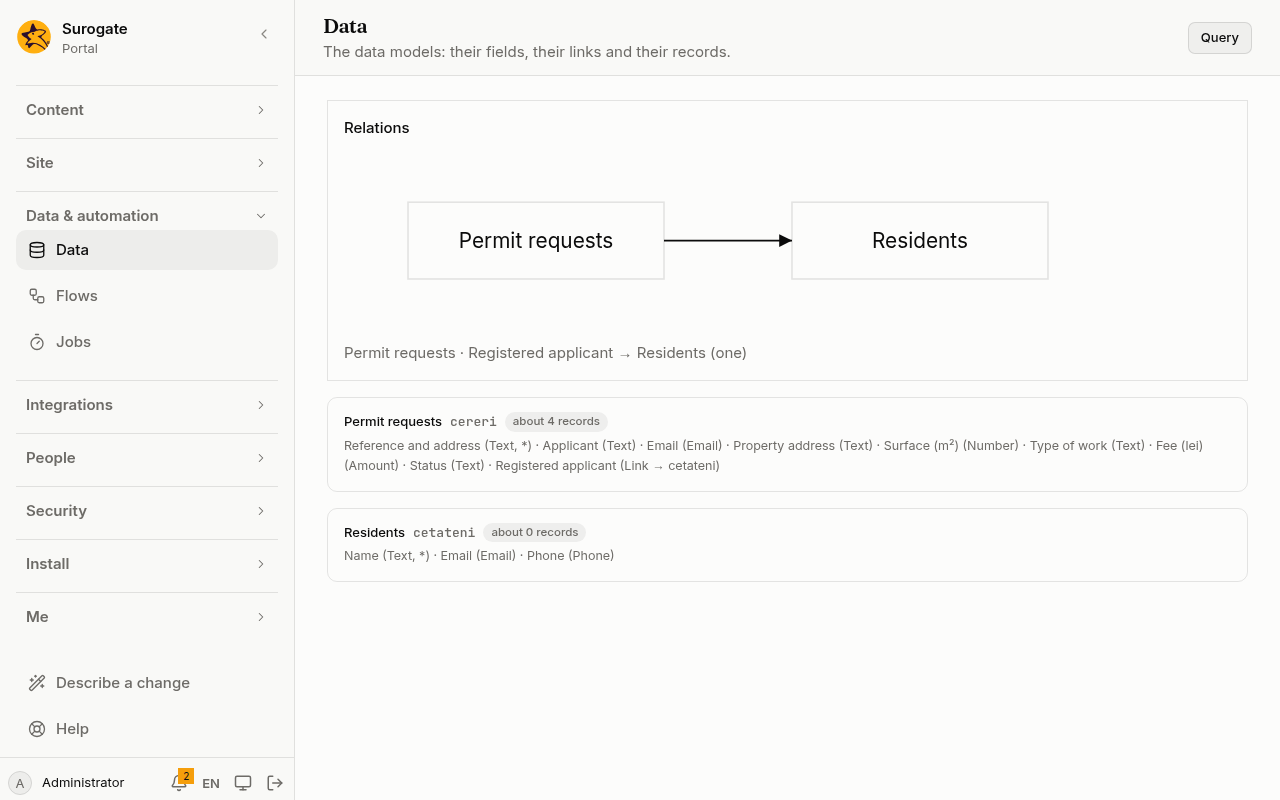
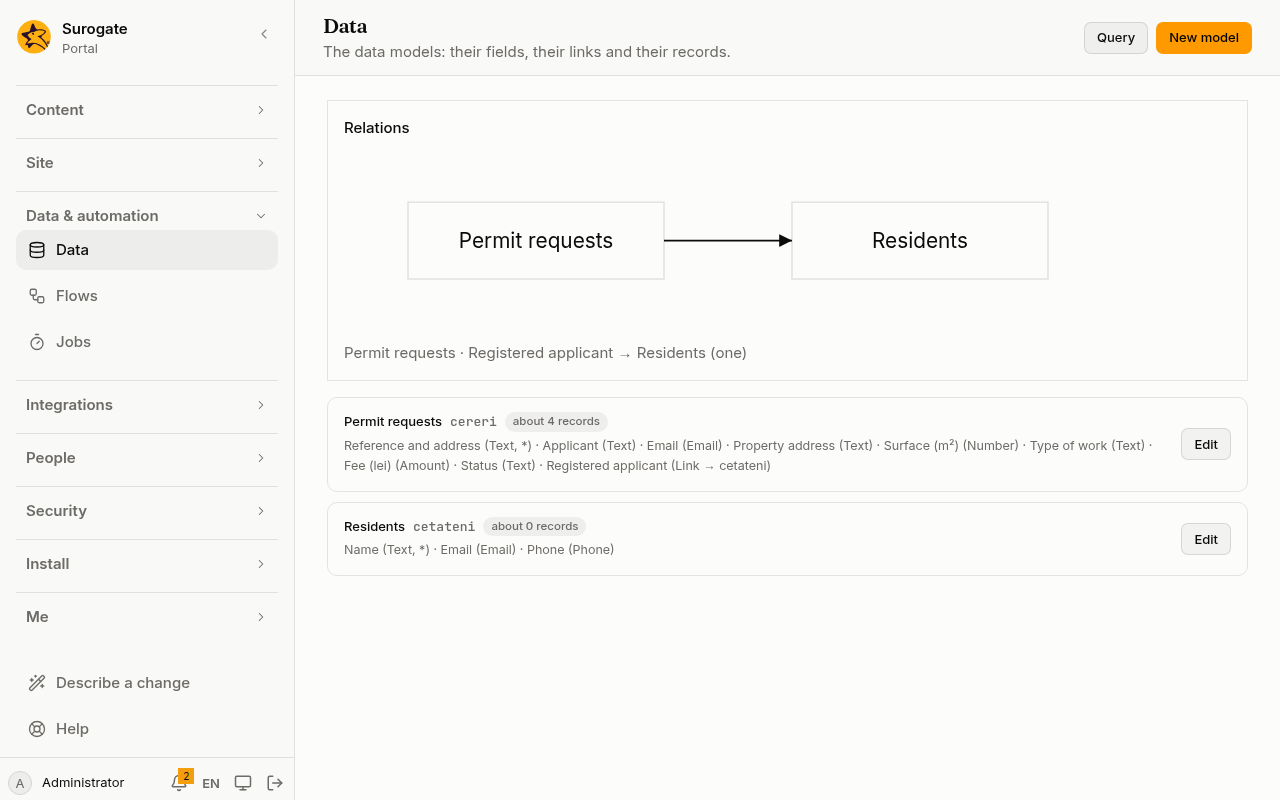
docs(portal): make and change data models in the console

diff --git a/tests/test_content.py b/tests/test_content.py
@@ -497,8 +497,12 @@ class Content(unittest.TestCase):
 
     def test_portal_data_models(self):
         doc = page('/portal/sites/data-models/')
-        for anchor in ('what-people-see', 'a-model', 'fields', 'who-may-do-what', 'when-the-file-changes', 'the-api', 'graphql', 'relations'):
+        for anchor in ('what-people-see', 'a-model', 'fields', 'who-may-do-what', 'when-a-model-changes', 'on-pages', 'the-api', 'graphql', 'relations'):
             self.assertIn(f'id="{anchor}"', doc)
+        self.assertIn('href="/portal/sites/data-models/#a-model"', page('/portal/console/data/'))
+        # Models, their pages and their KPIs are made in the console.
+        for path in ('sites/data-models.md', 'console/data.md', 'sites/kpis.md'):
+            self.assertNotIn('For now', (ROOT / 'src/content/docs/portal' / path).read_text(), path)
         self.assertIn('id="records"', page('/portal/sites/actions/'))
         self.assertIn('href="/portal/sites/data-models/"', page('/portal/console/data/'))
         for path in ('sites/data-models.md', 'console/data.md'):

diff --git a/src/content/docs/portal/sites/data-models.md b/src/content/docs/portal/sites/data-models.md
@@ -3,13 +3,13 @@ title: Data models
 description: Your own tables of records, with fields, links, permissions per role and an API.
 ---
 
-A data model is a kind of record the portal keeps for you: customers, requests, permits, appointments. You describe it in the site's configuration, and the portal makes its table, keeps it in step with the description, and serves its records to people, pages and [action lists](/portal/sites/actions/#records).
+A data model is a kind of record the portal keeps for you: customers, requests, permits, appointments. You make it in the console, under **Data**, and the portal makes its table, keeps it in step with the model, and serves its records to people, pages and [action lists](/portal/sites/actions/#records).
 
 ## What people see
 
 **Administrators** see the models under **Data** in the console: how they link to each other, each model's fields and about how many records it holds:
 
-![The Data page: Permit requests linked to Residents, drawn as two boxes with an arrow, and under them the two models with their fields and their number of records.](../../../../assets/screenshots/portal-data-models-console.png)
+![The Data page, with Query and New model: Permit requests linked to Residents, drawn as two boxes with an arrow, and under them the two models with their fields, their number of records and Edit.](../../../../assets/screenshots/portal-data-models-console.png)
 
 **Visitors and people signed in** see records on pages, through a [listing](/portal/sites/listings/), and add them through a form, as the model's permissions allow. Programs read and write them through [the API](#the-api).
 
@@ -17,9 +17,15 @@ A data model is a kind of record the portal keeps for you: customers, requests, 
 
 A model has a name, in Romanian and English, a title field that names a record in lists, its fields, and its permissions. The Data page lists each model's name and id.
 
-A model's id and each field's id are lower-case letters, digits and `_`, starting with a letter, at most 30 characters. A portal has at most 50 models, each with at most 100 fields.
+On **Data**, **New model** makes one and **Edit** changes one. The editor has four tabs: **Fields**, **Access**, **Pages** and **Figures**. **Save** stays off until the model has an id, a name in each language and at least one field; what is still missing is listed above the form, and a problem shows at the field that has it.
 
-The console does not build models yet. For now, this is set in the site's configuration: see [Developer: Data models](/portal/developer/data-models/#a-models-file).
+![The model editor on its Fields tab: the model cereri, its name in each language, and its fields, each with its type, its label in each language and its options.](../../../../assets/screenshots/portal-model-edit.png)
+
+A model's id and each field's id are lower-case letters, digits and `_`, starting with a letter, at most 30 characters. A model's id never starts with `pg_`. A portal has at most 50 models, each with at most 100 fields. The id is the table's name: it cannot change once the model is saved. To call a model something else, change its name.
+
+**Remove** takes the model away. Its table and its records stay, out of reach, until a model with the same id is made again: then it has the old records, with the new model's permissions. **New model** warns when its id is one of these, before you save. A model that a form, a listing, an action or another model's link still uses is not removed: the console lists what uses it, file by file.
+
+Developers can also write a model as a file: see [Developer: Data models](/portal/developer/data-models/#a-models-file).
 
 ## Fields
 
@@ -35,11 +41,17 @@ The console does not build models yet. For now, this is set in the site's config
 | Link | One record of the model it points at |
 | Links | Several records of the model it points at |
 
-A field can be required, searchable (text, found by search), filterable and sortable. Every record also has its id, its owner, and when and by whom it was made and last changed.
+A field can be required, searchable (text, found by search), filterable and sortable. Long texts and Links are neither filtered nor sorted on. Every record also has its id, its owner, and when and by whom it was made and last changed.
+
+On the **Fields** tab, **Add field** adds one: its id, its type, its label in each language, and its options. A Link or Links field also names the model it points at. **Title field** picks the field that names a record.
+
+A saved field keeps its id, and the model a link points at. Its type can change only among the text types, which are kept alike: Text, Long text, Email, Phone and Web address. Changing to a type that does not take an option, such as a Long text that is filtered on, drops that option.
+
+Removing a saved field keeps its values in the table, and the editor says so. A field added again with the same id has them back; it must have the type it had, and the editor says so until it does. If the removed field was the title field, the model has no title field until one is picked.
 
 A link to a record that is deleted is cleared; a record's own links to others go with it.
 
-For now, this is set in the site's configuration: see [Developer: Data models](/portal/developer/data-models/#fields).
+Developers: see [Developer: Data models](/portal/developer/data-models/#fields).
 
 ## Who may do what
 
@@ -47,17 +59,27 @@ A model says, for each role, whether it may view, edit and delete **all** record
 
 A record is someone's own when they added it. A visitor owns nothing: when everyone may add records, a public form can add records that its visitors then cannot see.
 
-For now, this is set in the site's configuration: see [Developer: Data models](/portal/developer/data-models/#who-may-do-what).
+The **Access** tab has a list for each: read every record, read their own, add records, change every record, change their own, remove every record, remove their own. **Add** in a list adds people signed in, a group, an organization or one person. A list left empty is administrators only.
 
-## When the file changes
+**Everyone**, signed in or not, is offered only for reading every record and for adding records, and the editor warns when it is chosen: everyone reading is a public register, everyone adding is a public form. Changing and removing records always need someone signed in.
+
+![The Access tab of the model cereri: administrators read every record, anyone signed in reads their own, and everyone adds records, with the warning that this makes a public form.](../../../../assets/screenshots/portal-model-edit-access.png)
+
+Developers: see [Developer: Data models](/portal/developer/data-models/#who-may-do-what).
+
+## When a model changes
 
 The portal adds what a change to the model adds: a new model gets its table, a new field its column. It never takes anything away: a field or model taken out keeps its data, and comes back with it if it is put back.
 
-A field's type can never change. A change to one is refused when it is saved, and the portal keeps what was live; add a new field with the new type instead.
+A field's type changes only among the text types. Any other change is refused when it is saved, and the portal keeps what was live; add a new field with the new type instead.
+
+A change the portal could not run, such as removing a field that a form still uses, is refused when it is saved: the console lists each problem with the file that has it, and nothing changes. A change that is saved but cannot go live yet is said as such, and the portal goes on with the model as it was; [Versions](/portal/console/versions/) says why.
 
 ## On pages
 
 Records show on pages through a [listing](/portal/sites/listings/), and a model can make its own page and form: see [A model's own pages and form](/portal/sites/listings/#a-models-own-pages-and-form).
+
+On the **Pages** tab, **Add page** makes a page with the model's list on a site: pick the site, write its path, such as `/cereri/registru`, and maybe a title, in both languages or in neither. **Add dashboard** makes a page of the model's [KPIs](/portal/sites/kpis/) the same way; it is offered once the model has a KPI. A model makes at most 10 pages and 5 dashboards.
 
 ## The API
 
@@ -69,7 +91,7 @@ The calls are in [Developer: Data models](/portal/developer/data-models/#the-api
 
 ## KPIs
 
-A model can declare [KPIs](/portal/sites/kpis/): counts, sums and averages over its records, shown as tiles and bars.
+A model can declare [KPIs](/portal/sites/kpis/): counts, sums and averages over its records, shown as tiles and bars. They are made on the **Figures** tab.
 
 ## GraphQL
 

diff --git a/src/content/docs/portal/sites/kpis.md b/src/content/docs/portal/sites/kpis.md
@@ -20,7 +20,11 @@ A model declares its KPIs. A KPI counts the records or works out a sum, an avera
 - Split by a filterable text or yes-or-no field, a KPI makes bars, one for each value. The 10 largest are shown; records with no value make a bar of their own, "—".
 - Followed over time, a KPI makes bars over the last 12 days, weeks, months or years, up to the current one. Weeks start on Monday, and periods follow UTC. The bars count by a date field, a date and time field, or when the record was made, which is the default.
 
-The console does not declare KPIs yet. For now, this is set in the site's configuration: see [Developer: KPIs](/portal/developer/kpis/#kpis-in-a-models-file).
+Declare them on the model's **Figures** tab, under **Data**: **Add figure**, then its id, its label in each language and its **Measure**. **Bars** picks one figure, one bar per value of a field, or one bar per period, with the date it goes by. **Add condition** keeps only the records whose field has a value. The editor offers only the fields each choice takes.
+
+![The Figures tab: the figures of the model cereri, each with its id, label, measure and bars.](../../../../assets/screenshots/portal-model-edit-figures.png)
+
+Developers: see [Developer: KPIs](/portal/developer/kpis/#kpis-in-a-models-file).
 
 ## Show them
 

diff --git a/src/content/docs/portal/sites/listings.md b/src/content/docs/portal/sites/listings.md
@@ -47,6 +47,6 @@ A search box shows when the model has searchable fields. Sortable columns sort w
 
 ## A model's own pages and form
 
-A model can make its own page on a site, with a listing that offers everything. The page's title is the model's name unless the model gives one. A path that a page already has is refused. For now, this is set in the site's configuration: see [Developer: Listings](/portal/developer/listings/#a-models-own-page).
+A model can make its own page on a site, with a listing that offers everything. The page's title is the model's name unless the model gives one. A path that a page already has is refused. Add it on the model's **Pages** tab: see [On pages](/portal/sites/data-models/#on-pages). Developers: see [Developer: Listings](/portal/developer/listings/#a-models-own-page).
 
 Each model also has its own form, `model-<id>` (an `_` in the id becomes `-`), to place like any [form](/portal/sites/forms/): one field for each of the model's fields, links as [record fields](/portal/sites/forms/#pick-a-record), sent to a new record. Who may send it is who may add records: when everyone may add records, visitors too, even where the form is placed on no page. The record holds what was sent; the form keeps its own copy for a day only.

diff --git a/src/content/docs/portal/console/data.md b/src/content/docs/portal/console/data.md
@@ -3,7 +3,11 @@ title: Data
 description: The data models, with their fields, links and how many records each holds.
 ---
 
-**Data** lists the portal's [data models](/portal/sites/data-models/) for administrators: each model's name and id, about how many records it holds, and its fields, each with its type, the model it links to, and a `*` when it is required. The console does not build models yet. For now, this is set in the site's configuration: see [Developer: Data models](/portal/developer/data-models/).
+**Data** lists the portal's [data models](/portal/sites/data-models/) for administrators: each model's name and id, about how many records it holds, and its fields, each with its type, the model it links to, and a `*` when it is required.
+
+**New model** makes a model, and **Edit** on a model changes it: its fields, who may use its records, its pages and its figures. See [Data models](/portal/sites/data-models/#a-model). A portal has at most 50 models; at 50, **New model** is off.
+
+A model that is saved but not running, because of a problem, is listed apart, under **Models not running**, with **Edit** to open it and see why.
 
 **Query** opens the [data console](/portal/console/data-console/), to ask the data models questions in SQL.
 
